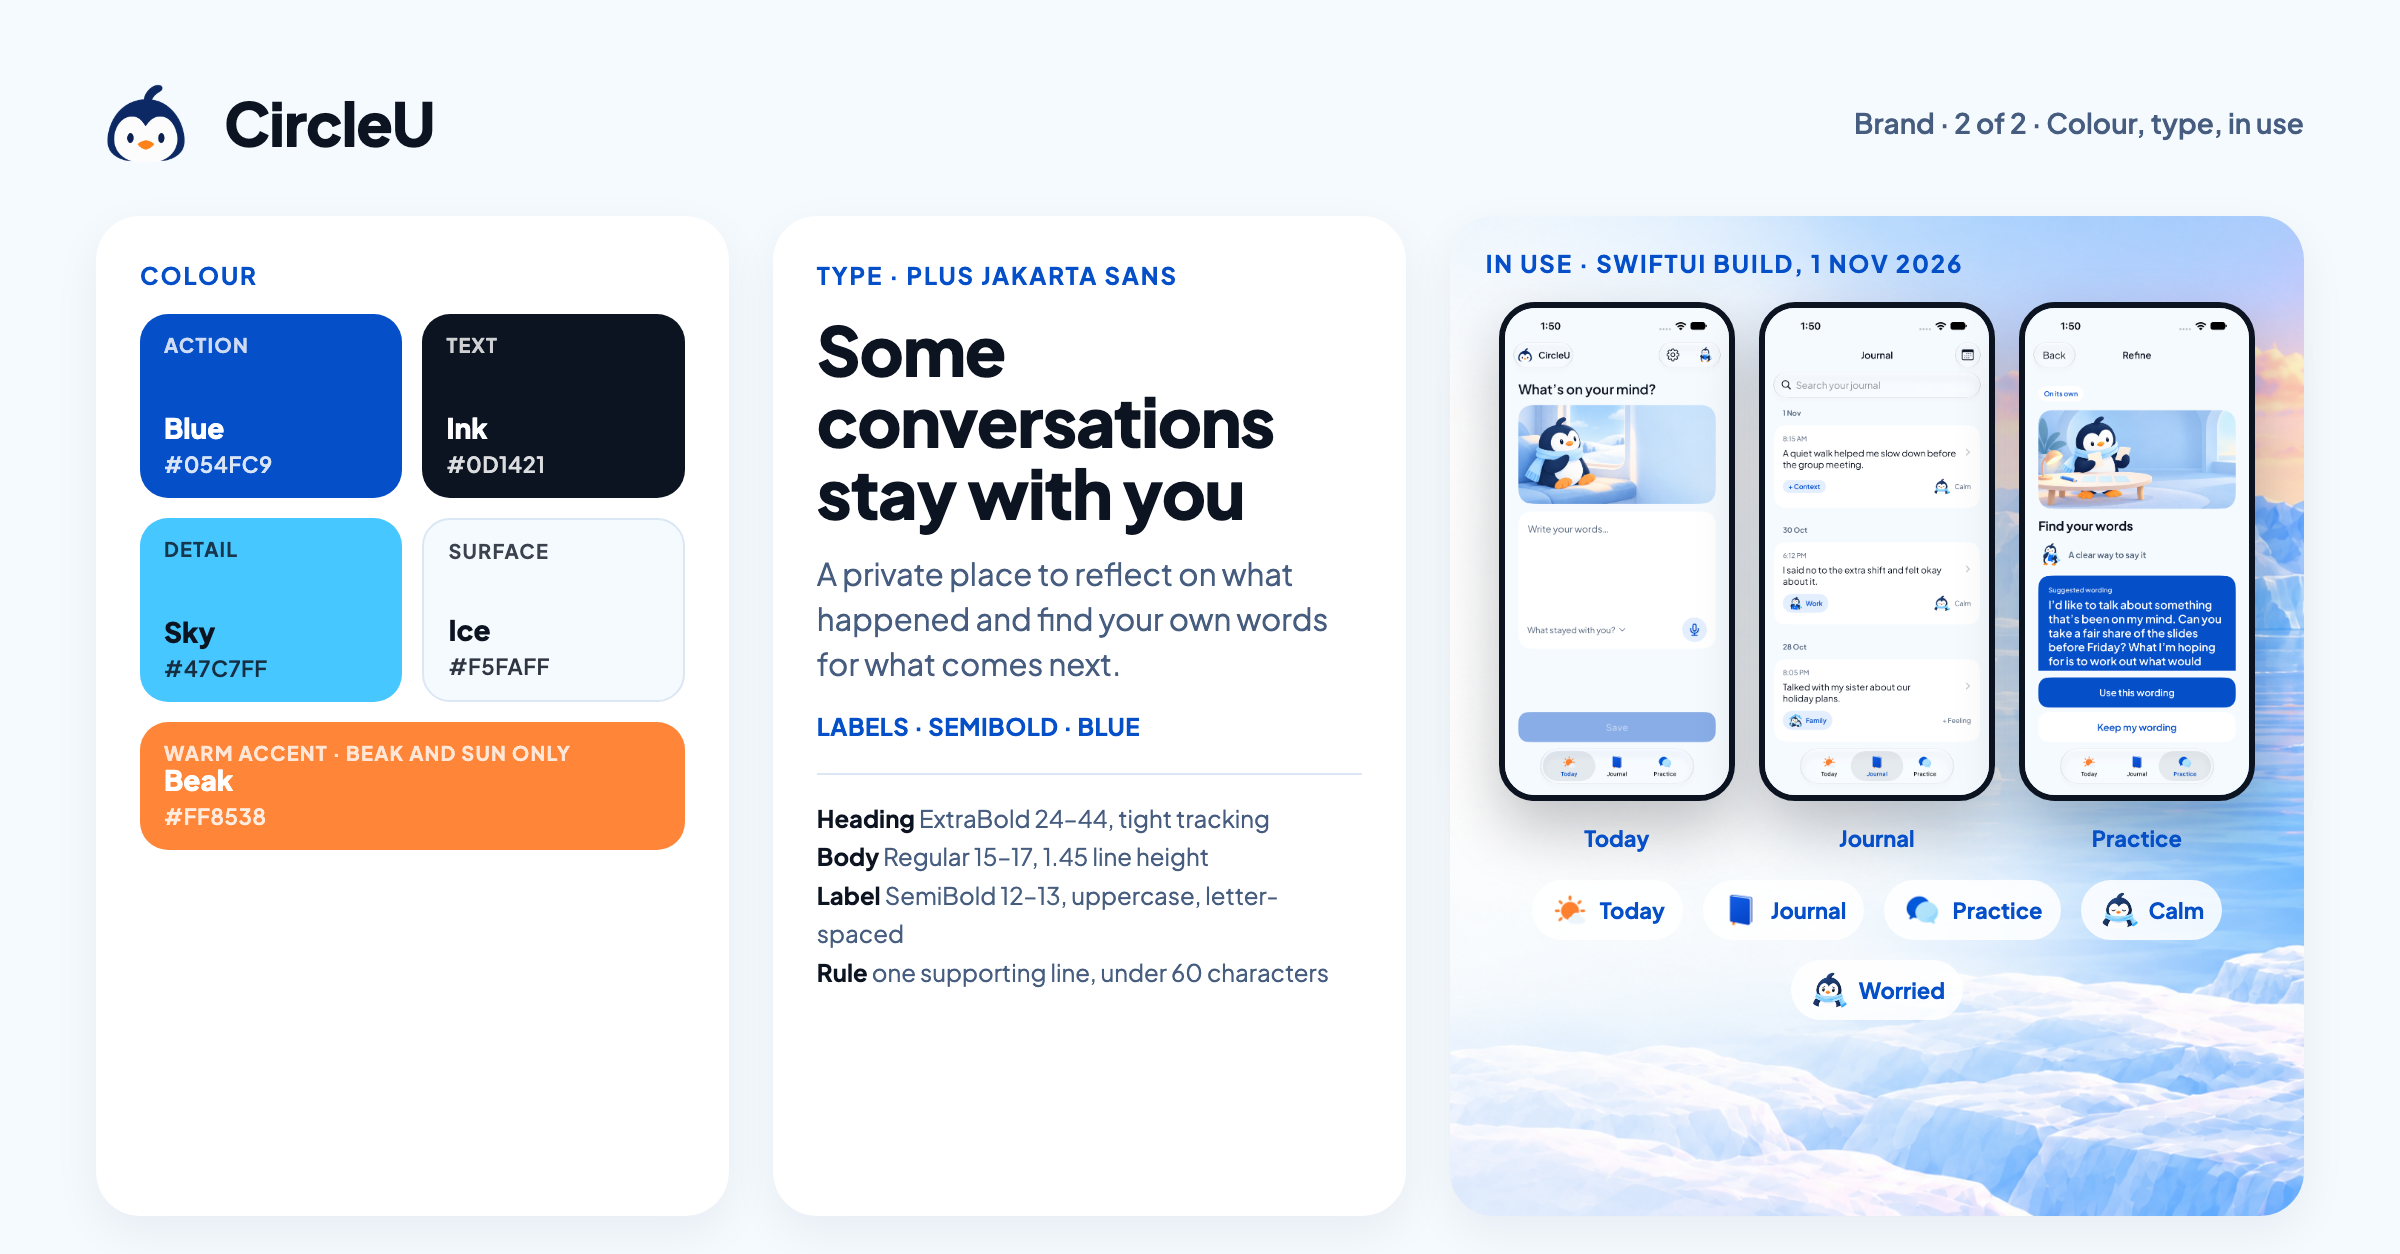
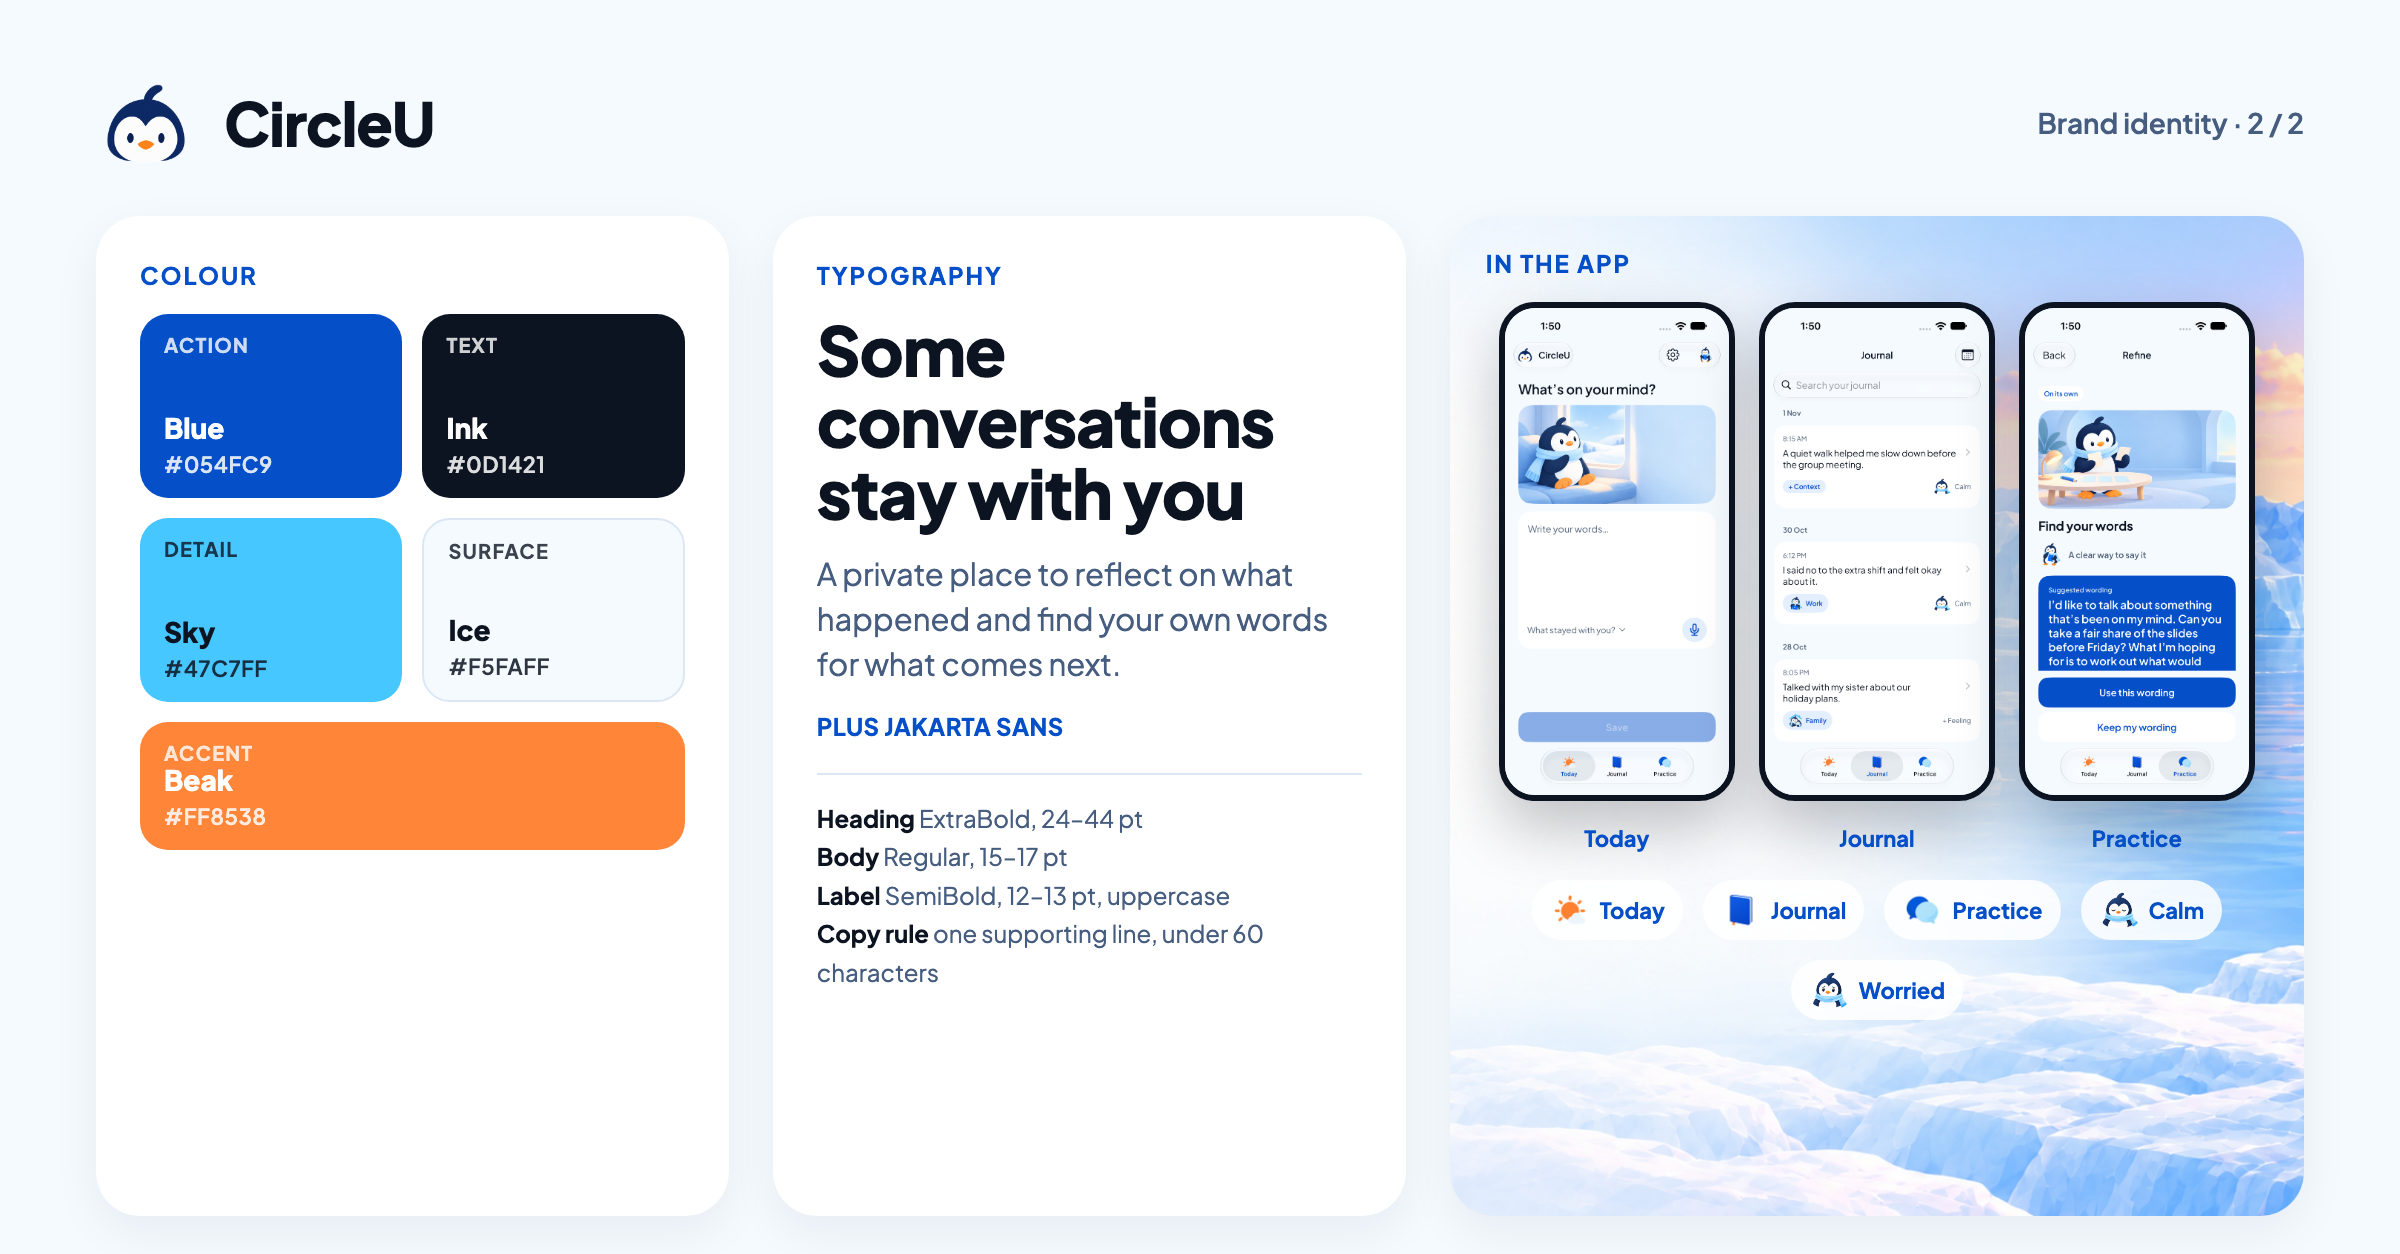
docs(linkedin): brand slides with plain headers, tighter copy, no letter overlay on the mark

diff --git a/docs/design/showcase-2026-10-30/refinement-07/linkedin/brand-slide-1.html b/docs/design/showcase-2026-10-30/refinement-07/linkedin/brand-slide-1.html
@@ -34,29 +34,29 @@ body{font-family:"Plus Jakarta Sans",sans-serif;color:#0d1421;background:#f5faff
 .mood .words b{font-size:13px;color:#054fc9}
 .mood .words span{display:inline-block;font-size:12.5px;color:#2f4260;background:#f5faff;border-radius:999px;padding:5px 10px;margin:2px 4px 2px 0}
 </style></head><body>
-<div class="head"><img src="assets/logo.png" alt=""><b>CircleU</b><small>Brand · 1 of 2 · Where the mark came from</small></div>
+<div class="head"><img src="assets/logo.png" alt=""><b>CircleU</b><small>Brand identity · 1 / 2</small></div>
 <div class="grid">
-  <div class="card logo"><div class="k">Old logo → new logo</div>
-    <h2>Same penguin. Now his face makes the U.</h2>
+  <div class="card logo"><div class="k">Logo</div>
+    <h2>Same character. A clearer mark.</h2>
     <div class="ba">
-      <div class="c"><h4>Published · June 2026</h4><div class="ic"><img src="assets/old-icon.png" alt=""></div><small>Line-art, closed eyes, black on white. The TestFlight icon students already know.</small></div>
+      <div class="c"><h4>Published, June 2026</h4><div class="ic"><img src="assets/old-icon.png" alt=""></div><small>Line art, black on white. The icon in the TestFlight release.</small></div>
       <div class="arrow">→</div>
-      <div class="c"><h4 class="new">Now · November 2026</h4><div class="ic new"><img src="assets/logo.png" alt=""></div><small>Soft two-colour face, open eyes, the scarf's blue. Same character, drawn once and used everywhere.</small></div>
+      <div class="c"><h4 class="new">Current, November 2026</h4><div class="ic new"><img src="assets/logo.png" alt=""></div><small>Two-colour face in brand ink and white. One drawing, used at every size.</small></div>
     </div>
-    <div class="u"><div class="mark"><img src="assets/logo.png" alt=""><div class="ring"></div><div class="uu">U</div></div><p><b>The idea in the mark.</b> The round head is the <b>Circle</b>: the people around you. The white of the face is a <b>U</b>: you, at the centre, and university. No hidden-letter trick forced on it; the penguin came first and the letter was already there.</p></div>
-    <p class="kept"><b>What stayed:</b> the name, the blue, the three tabs (Today, Journal, Practice) and the promise that nothing leaves the phone. <b>What changed:</b> one drawn character instead of two, a warmer palette, and far less text per screen.</p>
+    <div class="u"><div class="mark"><img src="assets/logo.png" alt=""></div><p><b>The name.</b> <b>Circle</b> is the people around you. <b>U</b> is you, and university. The mark is Pingu's face: the character used across the app, reduced to a form that reads at 24 px.</p></div>
+    <p class="kept"><b>Kept:</b> the name, the blue, the three tabs, and on-device storage. <b>Changed:</b> one character instead of two, a warmer palette, and less text on every screen.</p>
   </div>
-  <div class="card"><div class="k">Sketch, brainstorm, moodboard</div>
+  <div class="card"><div class="k">Process</div>
     <div class="trail">
       <div class="row">
-        <div class="t slot">Paper sketch or Miro board<br><em>(add yours here)</em></div>
-        <div class="t"><img src="assets/brand-demo.png" alt=""><span>23 Oct · first brand board</span></div>
-        <div class="t"><img src="assets/collection-21.png" alt=""><span>24 Oct · 21 poses from one face</span></div>
-        <div class="t"><img src="assets/emotion-atlas.jpg" alt=""><span>26 Oct · six feelings</span></div>
+        <div class="t slot">Sketches and Miro board<br><em>(to add)</em></div>
+        <div class="t"><img src="assets/brand-demo.png" alt=""><span>23 Oct · Brand board</span></div>
+        <div class="t"><img src="assets/collection-21.png" alt=""><span>24 Oct · Character poses</span></div>
+        <div class="t"><img src="assets/emotion-atlas.jpg" alt=""><span>26 Oct · Feeling portraits</span></div>
       </div>
       <div class="mood">
-        <div class="big"><img src="assets/scene-window.png" alt=""><img src="assets/scene-garden.png" alt=""><img src="assets/scene-welcome.png" alt=""><img src="assets/scene-shelf.png" alt=""><span>Moodboard · ice, sunrise, quiet rooms</span></div>
-        <div class="words"><b>Words we kept coming back to</b><div><span>warm</span><span>clear</span><span>composed</span><span>private</span><span>a companion, not a cheerleader</span><span>one short line, never a wall</span><span>cold outside, warm inside</span></div></div>
+        <div class="big"><img src="assets/scene-window.png" alt=""><img src="assets/scene-garden.png" alt=""><img src="assets/scene-welcome.png" alt=""><img src="assets/scene-shelf.png" alt=""><span>Moodboard</span></div>
+        <div class="words"><b>Direction</b><div><span>Warm</span><span>Clear</span><span>Composed</span><span>Private</span><span>Companion, not cheerleader</span><span>One line, not a paragraph</span></div></div>
       </div>
     </div>
   </div>

diff --git a/docs/design/showcase-2026-10-30/refinement-07/linkedin/brand-slide-2.html b/docs/design/showcase-2026-10-30/refinement-07/linkedin/brand-slide-2.html
@@ -24,22 +24,22 @@ body{font-family:"Plus Jakarta Sans",sans-serif;color:#0d1421;background:#f5faff
 .icons{display:flex;gap:10px;justify-content:center;margin-top:14px;flex-wrap:wrap}
 .icons span{display:flex;align-items:center;gap:5px;background:rgba(255,255,255,.85);border-radius:999px;padding:5px 9px;font-size:11px;font-weight:700;color:#054fc9}.icons img{height:20px}
 </style></head><body>
-<div class="head"><img src="assets/logo.png" alt=""><b>CircleU</b><small>Brand · 2 of 2 · Colour, type, in use</small></div>
+<div class="head"><img src="assets/logo.png" alt=""><b>CircleU</b><small>Brand identity · 2 / 2</small></div>
 <div class="grid">
   <div class="card"><div class="k">Colour</div><div class="sw">
     <div style="background:#054FC9;color:#fff"><span class="role">Action</span><b>Blue</b><i>#054FC9</i></div>
     <div style="background:#0D1421;color:#fff"><span class="role">Text</span><b>Ink</b><i>#0D1421</i></div>
     <div style="background:#47C7FF;color:#0d1421"><span class="role">Detail</span><b>Sky</b><i>#47C7FF</i></div>
     <div style="background:#F5FAFF;color:#0d1421;border:1px solid #dbe7f5"><span class="role">Surface</span><b>Ice</b><i>#F5FAFF</i></div>
-    <div style="background:#FF8538;color:#fff;grid-column:span 2;height:64px"><span class="role">Warm accent · beak and sun only</span><b>Beak</b><i>#FF8538</i></div>
+    <div style="background:#FF8538;color:#fff;grid-column:span 2;height:64px"><span class="role">Accent</span><b>Beak</b><i>#FF8538</i></div>
   </div></div>
-  <div class="card type"><div class="k">Type · Plus Jakarta Sans</div>
+  <div class="card type"><div class="k">Typography</div>
     <div class="h">Some conversations stay with you</div>
     <div class="b">A private place to reflect on what happened and find your own words for what comes next.</div>
-    <div class="l">LABELS · SEMIBOLD · BLUE</div>
-    <div class="spec"><b>Heading</b> ExtraBold 24–44, tight tracking<br><b>Body</b> Regular 15–17, 1.45 line height<br><b>Label</b> SemiBold 12–13, uppercase, letter-spaced<br><b>Rule</b> one supporting line, under 60 characters</div>
+    <div class="l">PLUS JAKARTA SANS</div>
+    <div class="spec"><b>Heading</b> ExtraBold, 24–44 pt<br><b>Body</b> Regular, 15–17 pt<br><b>Label</b> SemiBold, 12–13 pt, uppercase<br><b>Copy rule</b> one supporting line, under 60 characters</div>
   </div>
-  <div class="card mock"><div class="k">In use · SwiftUI build, 1 Nov 2026</div>
+  <div class="card mock"><div class="k">In the app</div>
     <div class="phones">
       <figure><img src="assets/app-today.png" alt=""><figcaption>Today</figcaption></figure>
       <figure><img src="assets/app-journal.png" alt=""><figcaption>Journal</figcaption></figure>
